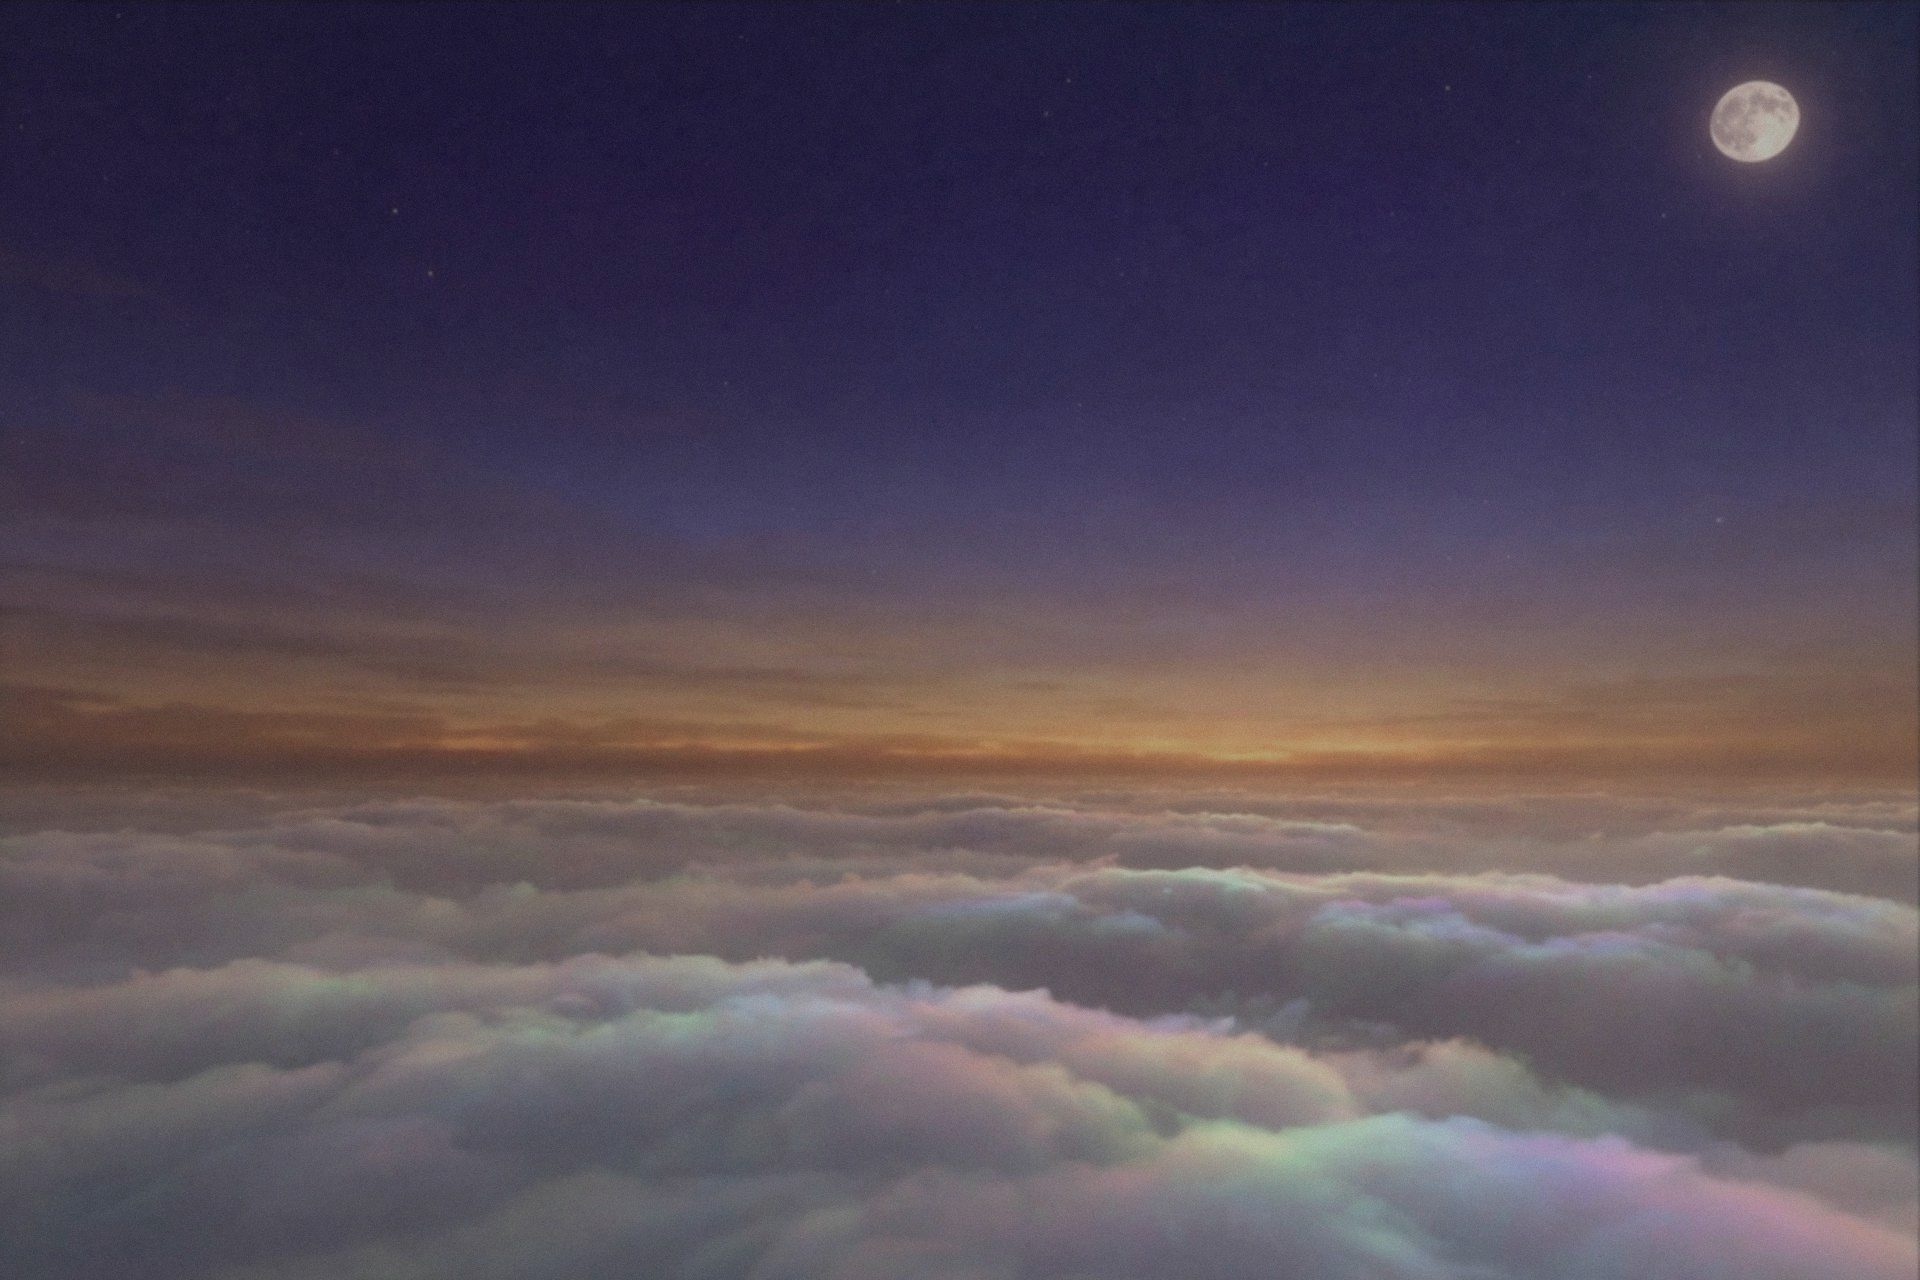
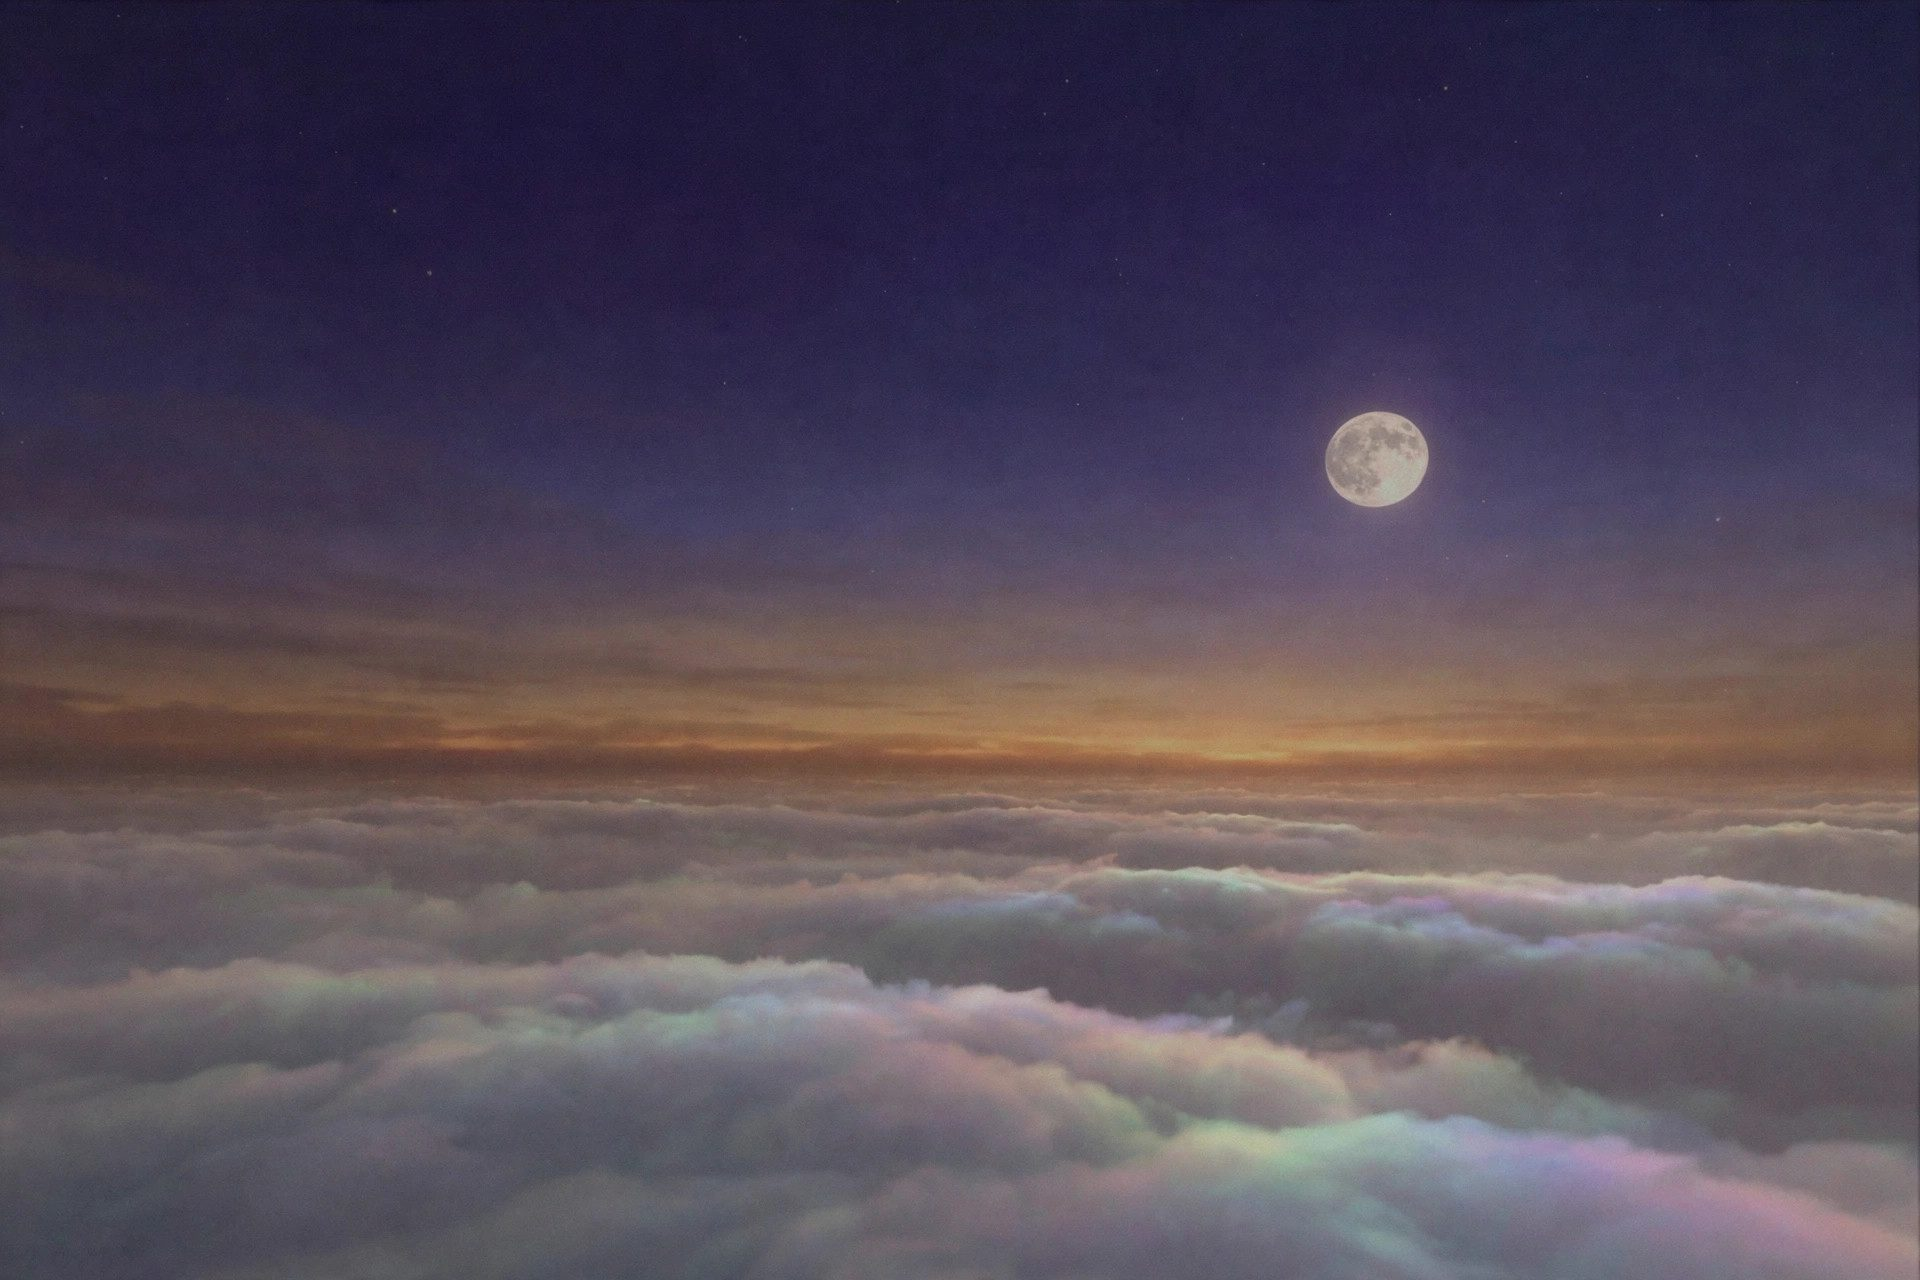
流れ星をパメラの光のようなリボン状に変更＋月の位置を内側へ

Changed region(s): [[0.875, 0.0312, 0.9688, 0.1562], [0.6875, 0.3125, 0.75, 0.4062]]

diff --git a/docs/index.html b/docs/index.html
@@ -655,10 +655,10 @@ document.addEventListener("DOMContentLoaded", () => {
   }
   for (let i = 0; i < DUST_N; i++) dust.push(newDust(true));
 
-  // 流れ星：重力で加速しながら弧を描く頭＋細かい尾の粒
-  let head = null, tail = [];
+  // 流れ星：加速しながら弧を描く頭＋連続したリボン状の尾＋下に散る微粒子
+  let head = null, path = [], sparks = [];
   function spawnMeteor() {
-    if (!head && CW > 0) {
+    if (!head && path.length === 0 && CW > 0) {
       const z = .7 + Math.random()*.3;
       const th = (22 + Math.random()*8) * Math.PI/180;
       const spd = 2.6 + Math.random()*1.1;
@@ -690,37 +690,73 @@ document.addEventListener("DOMContentLoaded", () => {
       head.vy += .05 * head.z;
       head.vx *= .999;
       head.x += head.vx; head.y += head.vy;
-      head.life -= .0085;
-      for (let i = 0; i < 3; i++) {
-        const pz = Math.max(.25, head.z + (Math.random()-.5)*.3);
-        tail.push({
-          x: head.x + (Math.random()-.5)*2.5, y: head.y + (Math.random()-.5)*2.5,
-          vx: -head.vx*.05 + (Math.random()-.5)*.35,
-          vy: -head.vy*.05 + (Math.random()-.5)*.35,
-          z: pz, life: 1, decay: .011 + Math.random()*.014,
-          size: .4 + pz*.9,
-          tw: Math.random()*Math.PI*2, tws: .3 + Math.random()*.45,
-          gold: Math.random() < .6
+      head.life -= .0075;
+      path.unshift({x: head.x, y: head.y});
+      if (path.length > 52) path.pop();
+      if (Math.random() < .6) {
+        sparks.push({
+          x: head.x + (Math.random()-.5)*6, y: head.y + 2 + Math.random()*5,
+          vx: (Math.random()-.5)*.3, vy: .1 + Math.random()*.25,
+          life: 1, decay: .02 + Math.random()*.02, size: .4 + Math.random()*.7,
+          tw: Math.random()*Math.PI*2, tws: .3 + Math.random()*.4,
+          green: Math.random() < .3
         });
       }
-      if (tail.length > 240) tail.splice(0, tail.length - 240);
+      if (sparks.length > 120) sparks.splice(0, sparks.length - 120);
+      if (head.life <= 0 || head.x < -20 || head.y > CH + 20) head = null;
+    } else if (path.length) {
+      path.pop();
+      if (path.length) path.pop();
+    }
+    // リボン状の尾（芯は黄白色、外へ橙〜赤橙、末端は細く消える）
+    if (path.length > 3) {
+      const n = path.length;
+      const hp = path[0], tp = path[n-1];
+      const fadeA = head ? Math.min(1, head.life * 1.5) : Math.min(1, path.length / 30);
+      const passes = [ {w: 8, a: .15}, {w: 3.4, a: .48} ];
+      for (const ps of passes) {
+        const g = mtx.createLinearGradient(hp.x, hp.y, tp.x, tp.y);
+        g.addColorStop(0, "rgba(255,246,220," + (ps.a * fadeA) + ")");
+        g.addColorStop(.45, "rgba(233,178,102," + (ps.a * .75 * fadeA) + ")");
+        g.addColorStop(1, "rgba(196,96,52,0)");
+        const L = [], R = [];
+        for (let i = 0; i < n; i++) {
+          const p = path[i];
+          const q = path[Math.min(i + 1, n - 1)], r = path[Math.max(i - 1, 0)];
+          let dx = q.x - r.x, dy = q.y - r.y;
+          const len = Math.hypot(dx, dy) || 1;
+          const nx = -dy / len, ny = dx / len;
+          const wdt = ps.w * Math.pow(1 - i / n, 1.35);
+          L.push([p.x + nx * wdt, p.y + ny * wdt]);
+          R.push([p.x - nx * wdt, p.y - ny * wdt]);
+        }
+        mtx.fillStyle = g;
+        mtx.beginPath();
+        mtx.moveTo(L[0][0], L[0][1]);
+        for (let i = 1; i < n; i++) mtx.lineTo(L[i][0], L[i][1]);
+        for (let i = n - 1; i >= 0; i--) mtx.lineTo(R[i][0], R[i][1]);
+        mtx.closePath(); mtx.fill();
+      }
+    }
+    // 頭の輝き
+    if (head) {
       const ha = head.life < .2 ? head.life/.2 : (head.life > .92 ? (1-head.life)/.08 : 1);
-      const R = 7 * head.z + 2;
+      const R = 8 * head.z + 2;
       const g = mtx.createRadialGradient(head.x, head.y, 0, head.x, head.y, R);
-      g.addColorStop(0, "rgba(255,250,235," + (.75*ha) + ")");
-      g.addColorStop(.35, "rgba(217,186,127," + (.32*ha) + ")");
-      g.addColorStop(1, "rgba(217,186,127,0)");
+      g.addColorStop(0, "rgba(255,250,235," + (.8*ha) + ")");
+      g.addColorStop(.35, "rgba(240,200,120," + (.3*ha) + ")");
+      g.addColorStop(1, "rgba(240,200,120,0)");
       mtx.fillStyle = g;
       mtx.beginPath(); mtx.arc(head.x, head.y, R, 0, Math.PI*2); mtx.fill();
-      if (head.life <= 0 || head.x < -20 || head.y > CH + 20) head = null;
     }
-    tail = tail.filter(p => p.life > 0);
-    for (const p of tail) {
+    // 尾の下に散る微粒子
+    sparks = sparks.filter(p => p.life > 0);
+    for (const p of sparks) {
       p.x += p.vx; p.y += p.vy;
       p.vx *= .985; p.vy = p.vy * .985 + .004;
       p.life -= p.decay; p.tw += p.tws;
-      const a = Math.max(p.life, 0) * (.5 + .5*Math.sin(p.tw)) * .7;
-      mtx.fillStyle = p.gold ? "rgba(217,186,127," + a + ")" : "rgba(245,232,208," + a + ")";
+      const a = Math.max(p.life, 0) * (.5 + .5*Math.sin(p.tw)) * .65;
+      mtx.fillStyle = p.green ? "rgba(196,222,150," + a + ")" : "rgba(233,205,150," + a + ")";
       mtx.beginPath(); mtx.arc(p.x, p.y, p.size, 0, Math.PI*2); mtx.fill();
     }
     requestAnimationFrame(tick);

diff --git a/docs/links.html b/docs/links.html
@@ -237,10 +237,10 @@ footer a:hover { color:var(--cream); }
   }
   for (let i = 0; i < DUST_N; i++) dust.push(newDust(true));
 
-  // 流れ星：重力で加速しながら弧を描く頭＋細かい尾の粒
-  let head = null, tail = [];
+  // 流れ星：加速しながら弧を描く頭＋連続したリボン状の尾＋下に散る微粒子
+  let head = null, path = [], sparks = [];
   function spawnMeteor() {
-    if (!head && CW > 0) {
+    if (!head && path.length === 0 && CW > 0) {
       const z = .7 + Math.random()*.3;
       const th = (22 + Math.random()*8) * Math.PI/180;
       const spd = 2.6 + Math.random()*1.1;
@@ -272,37 +272,73 @@ footer a:hover { color:var(--cream); }
       head.vy += .05 * head.z;
       head.vx *= .999;
       head.x += head.vx; head.y += head.vy;
-      head.life -= .0085;
-      for (let i = 0; i < 3; i++) {
-        const pz = Math.max(.25, head.z + (Math.random()-.5)*.3);
-        tail.push({
-          x: head.x + (Math.random()-.5)*2.5, y: head.y + (Math.random()-.5)*2.5,
-          vx: -head.vx*.05 + (Math.random()-.5)*.35,
-          vy: -head.vy*.05 + (Math.random()-.5)*.35,
-          z: pz, life: 1, decay: .011 + Math.random()*.014,
-          size: .4 + pz*.9,
-          tw: Math.random()*Math.PI*2, tws: .3 + Math.random()*.45,
-          gold: Math.random() < .6
+      head.life -= .0075;
+      path.unshift({x: head.x, y: head.y});
+      if (path.length > 52) path.pop();
+      if (Math.random() < .6) {
+        sparks.push({
+          x: head.x + (Math.random()-.5)*6, y: head.y + 2 + Math.random()*5,
+          vx: (Math.random()-.5)*.3, vy: .1 + Math.random()*.25,
+          life: 1, decay: .02 + Math.random()*.02, size: .4 + Math.random()*.7,
+          tw: Math.random()*Math.PI*2, tws: .3 + Math.random()*.4,
+          green: Math.random() < .3
         });
       }
-      if (tail.length > 240) tail.splice(0, tail.length - 240);
+      if (sparks.length > 120) sparks.splice(0, sparks.length - 120);
+      if (head.life <= 0 || head.x < -20 || head.y > CH + 20) head = null;
+    } else if (path.length) {
+      path.pop();
+      if (path.length) path.pop();
+    }
+    // リボン状の尾（芯は黄白色、外へ橙〜赤橙、末端は細く消える）
+    if (path.length > 3) {
+      const n = path.length;
+      const hp = path[0], tp = path[n-1];
+      const fadeA = head ? Math.min(1, head.life * 1.5) : Math.min(1, path.length / 30);
+      const passes = [ {w: 8, a: .15}, {w: 3.4, a: .48} ];
+      for (const ps of passes) {
+        const g = mtx.createLinearGradient(hp.x, hp.y, tp.x, tp.y);
+        g.addColorStop(0, "rgba(255,246,220," + (ps.a * fadeA) + ")");
+        g.addColorStop(.45, "rgba(233,178,102," + (ps.a * .75 * fadeA) + ")");
+        g.addColorStop(1, "rgba(196,96,52,0)");
+        const L = [], R = [];
+        for (let i = 0; i < n; i++) {
+          const p = path[i];
+          const q = path[Math.min(i + 1, n - 1)], r = path[Math.max(i - 1, 0)];
+          let dx = q.x - r.x, dy = q.y - r.y;
+          const len = Math.hypot(dx, dy) || 1;
+          const nx = -dy / len, ny = dx / len;
+          const wdt = ps.w * Math.pow(1 - i / n, 1.35);
+          L.push([p.x + nx * wdt, p.y + ny * wdt]);
+          R.push([p.x - nx * wdt, p.y - ny * wdt]);
+        }
+        mtx.fillStyle = g;
+        mtx.beginPath();
+        mtx.moveTo(L[0][0], L[0][1]);
+        for (let i = 1; i < n; i++) mtx.lineTo(L[i][0], L[i][1]);
+        for (let i = n - 1; i >= 0; i--) mtx.lineTo(R[i][0], R[i][1]);
+        mtx.closePath(); mtx.fill();
+      }
+    }
+    // 頭の輝き
+    if (head) {
       const ha = head.life < .2 ? head.life/.2 : (head.life > .92 ? (1-head.life)/.08 : 1);
-      const R = 7 * head.z + 2;
+      const R = 8 * head.z + 2;
       const g = mtx.createRadialGradient(head.x, head.y, 0, head.x, head.y, R);
-      g.addColorStop(0, "rgba(255,250,235," + (.75*ha) + ")");
-      g.addColorStop(.35, "rgba(217,186,127," + (.32*ha) + ")");
-      g.addColorStop(1, "rgba(217,186,127,0)");
+      g.addColorStop(0, "rgba(255,250,235," + (.8*ha) + ")");
+      g.addColorStop(.35, "rgba(240,200,120," + (.3*ha) + ")");
+      g.addColorStop(1, "rgba(240,200,120,0)");
       mtx.fillStyle = g;
       mtx.beginPath(); mtx.arc(head.x, head.y, R, 0, Math.PI*2); mtx.fill();
-      if (head.life <= 0 || head.x < -20 || head.y > CH + 20) head = null;
     }
-    tail = tail.filter(p => p.life > 0);
-    for (const p of tail) {
+    // 尾の下に散る微粒子
+    sparks = sparks.filter(p => p.life > 0);
+    for (const p of sparks) {
       p.x += p.vx; p.y += p.vy;
       p.vx *= .985; p.vy = p.vy * .985 + .004;
       p.life -= p.decay; p.tw += p.tws;
-      const a = Math.max(p.life, 0) * (.5 + .5*Math.sin(p.tw)) * .7;
-      mtx.fillStyle = p.gold ? "rgba(217,186,127," + a + ")" : "rgba(245,232,208," + a + ")";
+      const a = Math.max(p.life, 0) * (.5 + .5*Math.sin(p.tw)) * .65;
+      mtx.fillStyle = p.green ? "rgba(196,222,150," + a + ")" : "rgba(233,205,150," + a + ")";
       mtx.beginPath(); mtx.arc(p.x, p.y, p.size, 0, Math.PI*2); mtx.fill();
     }
     requestAnimationFrame(tick);
